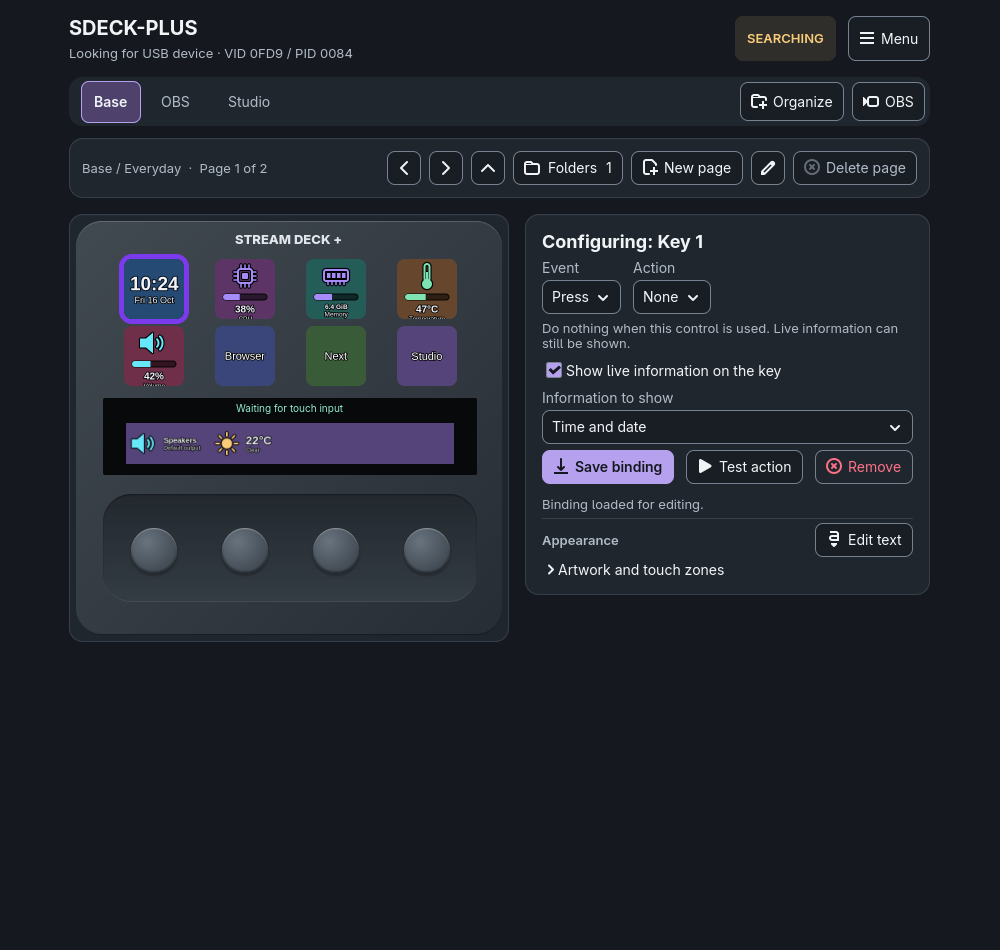
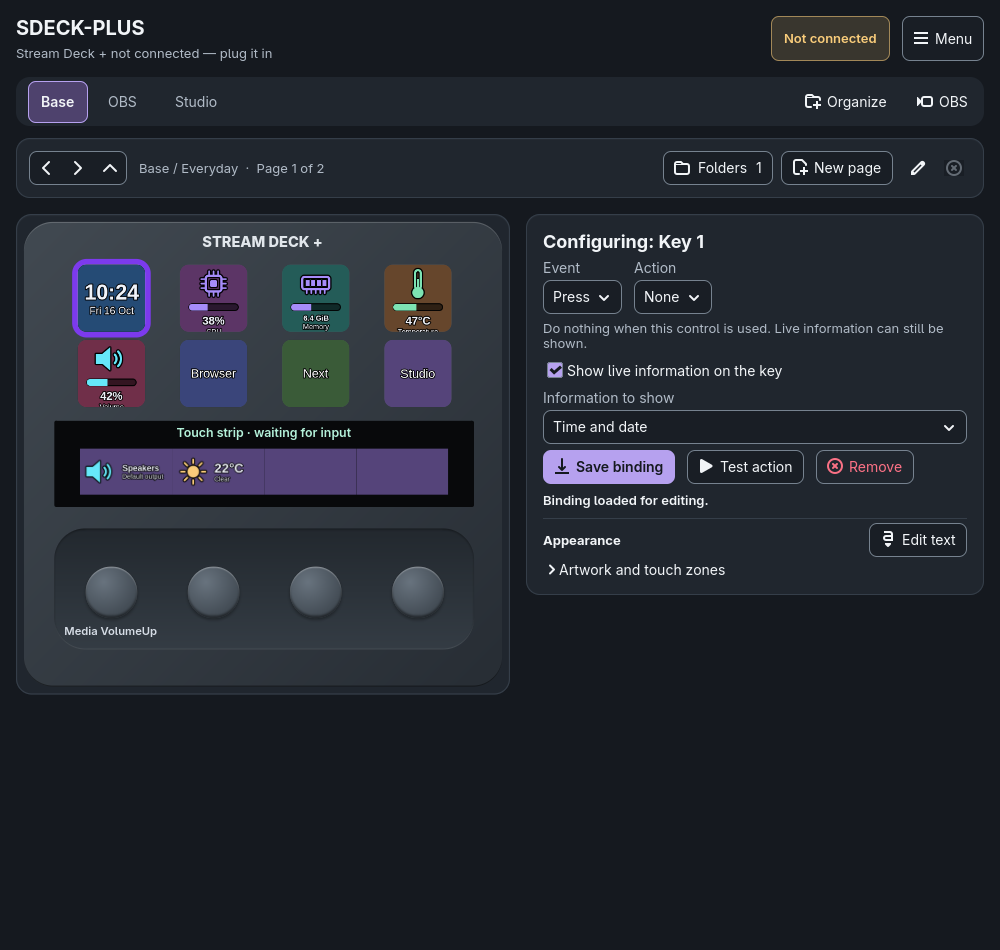
docs: describe the refreshed main window and regenerate screenshots
Document the fill-and-scale layout, page bar grouping, plain-language
connection badge, dial captions and inspector grouping in DESIGN.md,
README.md and CHANGELOG.md, and regenerate the documentation captures.

diff --git a/DESIGN.md b/DESIGN.md
@@ -77,8 +77,9 @@ supporting ink `#536170`, primary action `#6746bb` (hover `#5939a9`, press
 `#4c2f95`), selected tab `#e8e1f6`, focus cue `#0e7183`, error `#c0243f`,
 success `#1b7f55`, warning `#9a6a00`. The graphite hardware is identical in both modes.
 
-Status badges pair semantic tones with visible text and low-alpha surfaces.
-Color alone never communicates state. Hardware uses a graphite chassis
+Status badges pair semantic tones with visible text, a low-alpha fill and a
+55%-alpha edge of the same token: warning for Not connected/Disconnected, error
+for Unavailable and success for Connected. Color alone never communicates state. Hardware uses a graphite chassis
 (`#414951` to `#272d34`), pale branding (`#e1e6eb`), black key/strip material
 (`#08090b`), inset key edge (`#515b65`), recessed rail (`#22282e` to `#343c44`)
 and neutral encoders (`#68737e` to `#343c44`). Subtle inset lighting gives the
@@ -91,7 +92,8 @@ dial turn, and a cyan `#67e8f9` wash over each touched strip zone for 300ms (the
 800px strip maps to four 200px zones; a flick lights every zone it crosses).
 Keyboard focus keeps its cyan outline. Task tabs use the selected-tab surface
 and weight 600; profile tabs add a fine violet inset edge. Inactive tabs are
-transparent with supporting ink; Appearance headings use supporting ink too.
+transparent with supporting ink. Inspector section headings (Options,
+Appearance) use primary ink at 13px/700.
 
 Interactive boundaries use their own neutral token rather than the quieter
 decorative card edge: at least 3:1 against input and editor surfaces in both
@@ -103,8 +105,11 @@ increase thumb contrast without changing native scrolling geometry.
 
 Use the system GTK font. App title: 20px/700. Inspector title: 18px/700.
 Section labels: 14px/600. Body, controls and field labels: 14px. Supporting
-metadata: 13px. Existing physical-device branding and the tiny touch display
-retain their material typography; neither carries configuration instructions.
+metadata: 13px. Binding status: 13px/600 primary ink. Existing physical-device
+branding keeps its material typography. The preview-only touch placeholder
+("Touch strip · waiting for input") is 11px/600 mint on black, and each preview
+dial's caption is 10px/600 pale graphite ink; neither carries configuration
+instructions or reaches the physical device.
 Long summaries ellipsize with full tooltips; editable fields preserve the value.
 
 ## 4. Spacing and layout
@@ -123,10 +128,13 @@ device/editor region have 16px separation. The device and editor also have
 The editor uses 16px inner padding and 6px between related form groups, keeping
 the added return and information options within the default 1000x700 layout.
 Event/action selectors and Save/Test/Remove controls have 12px inline gaps.
-Binding feedback stays with its action buttons at a 12px vertical gap,
-while the Appearance separator keeps action and artwork sections distinct.
-That status line reads "Unsaved changes." as soon as any editor field differs
-from the loaded or saved binding; loading, saving or removing resets it.
+A small "Options" heading groups the page-return and live-information checks.
+Binding feedback sits directly under its action buttons at an 8px vertical gap
+in primary ink, while the Appearance separator, a 4px extra top margin and an
+ink "Appearance" heading keep action and artwork sections distinct.
+That status line reads "Unsaved changes." in the warning tone as soon as any
+editor field differs from the loaded or saved binding; loading, saving or
+removing resets it.
 Selecting another preview control while edits are unsaved asks first with the
 compact confirmation style (Keep editing is the default, Discard changes is
 destructive). Remove leaves an Undo remove button under that status line until
@@ -139,8 +147,9 @@ Appearance tools and artwork disclosure use 12px gaps without extra empty cards.
 Executable and arguments are one related adaptive group: two columns with a
 16px gap when each can receive at least 180px, otherwise stacked with 12px
 separation. Shortcut input and modifiers use the same adaptive group; modifiers
-form a two-by-two grid with 12px columns and 8px rows instead of a cramped line,
-ordered Ctrl, Alt, Shift, Super. A muted line under the grid previews the chord
+are one linked row of named toggle buttons ordered Ctrl, Alt, Shift, Super
+(4px/10px padding, checked state uses the selected-tab surface with a violet
+inset edge, tooltip "Hold X with the key"). A muted line under the row previews the chord
 once it parses (for example "Presses Ctrl + Alt + P") and stays hidden otherwise.
 Commands and named events occupy a full-width field. Hidden fields also hide
 their layout cells, and the group disappears for actions that do not use it,
@@ -154,24 +163,37 @@ heading with its explanation at 8px, rather than giving headings and unrelated
 steps the same gap. Text editing keeps 16px between form and preview and 12px
 between Save/Remove actions; its 120px preview remains unchanged.
 
-The fixed-size device chassis is centered within its natural-size preview card
-(440x428 including padding and border); that card never stretches to match a tall
-form. The inspector uses its content height, without an arbitrary minimum height.
+The fixed-geometry device chassis sits in its preview card (440x428 at 1x,
+including padding and border). The card is presented through `ScaledBin`
+(`src/ui/scaled_bin.rs`): one uniform transform between 1.0x and 1.5x that
+fits the card into its region's width and height, top-aligned and horizontally
+centered. Hardware coordinates, artwork targets and the card's minimum size
+never change, so scaling only uses spare room and never adds scrolling; the
+card never stretches non-uniformly to match a tall form. GTK applies the same
+transform to drawing and pointer picking, so selection, drag-and-drop and
+focus keep working. The inspector uses its content height, without an
+arbitrary minimum height.
 The complete configuration shell (header, profile toolbar, page navigation and
-body) is centered at its GTK natural content width on wide desktops. These bars
-share the shell's leading/trailing edges rather than spanning the viewport while
-the task occupies only its middle. The native FlowBox also retains its natural
-width, keeping the fixed preview beside a readable inspector instead of creating
-a large empty preview cell. Width is content-driven, not a fixed viewport request:
-the ordinary test forms measure roughly 860–875px, and longer forms can use more.
+body) fills the available width up to 1240px (1272px including margins), then
+centers (`Clamp`, `src/ui/clamp.rs`; GTK 4.8 has no native clamp). These bars
+share the shell's leading/trailing edges. The native FlowBox decides wrapping
+from natural widths, so the preview's natural width stays unscaled; spare
+width reaches both regions through horizontal expansion and spare height
+reaches the preview row through vertical expansion. At 1000x700 the preview
+is about 1.1x; at 1280x800 and wider it reaches at least 1.25x.
 At narrow widths the shell shrinks to the available width and the same native
 container stacks the regions; only vertical scrolling is needed at 640px.
-No custom layout manager or resize polling is used.
+These two size-only containers are the only custom layout; there is no resize
+polling.
 
-The profile tabs, profile organization menu and OBS menu form a compact toolbar.
-The organization popover contains only profile creation, application association
-and profile deletion. The page bar groups compact previous/next/parent icons,
-page-owned folders, then New page followed by pencil and red-trash icons.
+The profile tabs, profile organization menu and OBS menu form a compact toolbar;
+Organize and OBS are frameless (hover shows the surface) so they stay secondary
+to the tabs. The organization popover contains only profile creation, application
+association and profile deletion. The page bar separates navigation from
+management: a linked previous/next/parent segmented group leads the
+breadcrumb with a 12px gap, and page-owned folders and New page trail it,
+followed by frameless square pencil and red-trash icons (still named, with
+tooltips; deletion still confirms).
 The folder menu has no outer padding, preserving the page bar's 34px controls.
 Icon-only actions use square 34px hit areas and centered 16px symbolic icons;
 captioned actions use a 6px icon/text gap and the same control height. MenuButton

diff --git a/README.md b/README.md
@@ -28,7 +28,11 @@ GDK_BACKEND=x11 STREAMDECK_DOC_SCREENSHOTS_DIR="$PWD/docs/screenshots" \
 
 **Main window.** Connection status, profile tabs, page navigation, the
 hardware preview with the assigned artwork, and the binding editor for the
-selected control.
+selected control. The header says in plain words whether the Stream Deck + is
+connected (for example "Stream Deck + not connected — plug it in") next to a
+colored **Not connected**, **Unavailable**, **Disconnected** or **Connected**
+badge; hover it for the USB IDs and technical details. Each dial in the preview
+shows the action it is assigned to.
 
 ![Main window with Key 1 selected](docs/screenshots/main-window.png)
 
@@ -392,7 +396,8 @@ Keypad layers and retained legacy action bindings are stored in `layers.conf` in
 configuration unchanged. The adjacent pencil renames the current page;
 the red trash button deletes it after confirmation, including its owned
 folders, bindings and artwork. Renaming preserves its identity and contents.
-The compact previous, next and parent icons have accessible labels and tooltips.
+The previous, next and parent arrows form one group before the page name and
+have accessible labels and tooltips.
 
 The folder icon in the page bar opens **Page folders**. Create a folder,
 select one of this page's folders, then **Open folder**, **Link to control**
@@ -414,7 +419,7 @@ To configure an action, choose the layer at the top, then select a physical cont
 
 1. Click one of the eight buttons (two rows of four), the horizontal touch strip, or one of the four encoders beneath it. Clicking an artwork zone also selects the whole touch strip; zones are image regions, not separate gesture bindings.
 2. Pick an event valid for that control: button press; encoder press/clockwise/counterclockwise; or touch tap, press-and-hold, generic swipe/flick, and directional swipes.
-3. Pick an action and fill only its visible fields. The existing layer, command, application, shortcut and legacy-event choices remain available. **More actions** opens typed category-specific fields described below. Shortcuts accept a full chord such as `CTRL + D` or one key with optional modifier checkboxes.
+3. Pick an action and fill only its visible fields. The existing layer, command, application, shortcut and legacy-event choices remain available. **More actions** opens typed category-specific fields described below. Shortcuts accept a full chord such as `CTRL + D` or one key with the optional **Ctrl**, **Alt**, **Shift** and **Super** modifier toggles.
 4. Click **Save binding** to create or update that control event, or **Remove binding** to clear it. A floating toast confirms success only after the binding is written to disk; validation or saving problems show an error toast. Success disappears after five seconds; errors remain until dismissed or replaced by another notification. Saving never executes the action. Selecting an already configured control event loads its saved action for inspection and editing.
 
 Hover a physical control to see assignments for the selected keypad page or profile touchscreen page, including **Unassigned** events: encoders include **Press**, **CW** (clockwise), and **CCW** (counterclockwise); the touch strip includes tap, hold, flick, and directional swipes. Legacy exact-tick rotation overrides appear separately. Long action text is shortened; select the event to inspect its full saved fields. Summaries refresh after saving/removing bindings, selecting/creating/removing layers, and input-driven **Go to profile or page** actions. Selection highlighting is separate from live pressed-state highlighting, and live input does not replace assignment summaries. The shared **Image…** and **×** edit the explicitly selected artwork target, independently of the binding editor.
@@ -517,11 +522,12 @@ At the default 1000 × 700 logical-pixel client size, the device canvas stays on
 
 The window uses 16 logical pixels of outer padding, charcoal surfaces in dark
 mode and clean pale-gray surfaces in light mode, following the desktop GTK theme.
-The complete configuration desk—header, profile tabs, page bar and editor—is
-centered at its natural content width on wide displays, keeping toolbar actions
-near their task instead of stretching empty bars across the window. At 640 pixels
-it uses the available width and stacks the preview and editor without horizontal
-scrolling. Hardware proportions stay fixed; forms keep their natural height.
+The complete configuration desk—header, profile tabs, page bar and editor—uses
+the window's width up to 1240 pixels and centers beyond that. The hardware
+preview grows with spare room (up to 1.5 times) while keeping its proportions,
+and the editor widens with it. At 640 pixels it uses the available width and
+stacks the preview and editor without horizontal scrolling. Forms keep their
+natural height.
 Violet save actions and cyan keyboard focus stand apart from the quieter chrome.
 Profile tabs use a violet tonal selection with a fine accent edge, and the **Appearance** group
 separates button text and artwork from action editing. **Save binding** only
@@ -531,8 +537,11 @@ Profile tabs and page navigation have a 12-pixel gap; the main preview and
 editor regions have 16-pixel separation. The editor uses 16-pixel padding
 and 6-pixel gaps between related form groups; Appearance uses 4-pixel internal
 gaps. Executable/arguments and shortcut/modifiers share
-adaptive columns, stacking when their available width is too small. Modifier
-checkboxes use a two-by-two grid, and hidden fields do not leave empty cells.
+adaptive columns, stacking when their available width is too small. Modifiers
+are one row of toggle buttons, and hidden fields do not leave empty cells. An
+**Options** heading groups the page-return and live-information choices, and
+the binding status appears right under **Save binding**, **Test action** and
+**Remove**.
 
 Organization, OBS and help panels keep their title and **Close** button visible
 above scrollable content. The text popup retains its full-size preview and

diff --git a/odd/tasks/streamdeck-plus-ui-refresh.md b/odd/tasks/streamdeck-plus-ui-refresh.md
@@ -24,7 +24,7 @@ modifier grid, loose option checkboxes, low-visibility status line).
 - [x] T3 Header status: plain-language connection state, visible badge, VID/PID moved to tooltip.
 - [x] T4 Device preview legibility: larger key labels, clearer touch strip, dials show assigned action.
 - [x] T5 Inspector: aligned modifier toggles, grouped options, visible status next to actions, Appearance placement.
-- [ ] T6 Docs: DESIGN.md, README if affected, CHANGELOG, regenerated screenshots.
+- [x] T6 Docs: DESIGN.md, README if affected, CHANGELOG, regenerated screenshots.
 
 ## Route
 Delegated direct (one writer): 2+ non-trivial files (src/ui.css, src/main.rs,
@@ -94,4 +94,19 @@ changes."; Appearance uses the same ink heading with extra separation. RED
 observed first: `ui_refresh_tests::inspector_groups_modifiers_options_status_and_appearance`
 failed ("row.has_css_class(linked)"), then GREEN. No-scroll 1000x700 assertions
 still pass. Checks: fmt ok, clippy ok, headless ok, examples build ok, display
-bin suite 44/45 (only the known base failure).
+bin suite 44/45 (only the known base failure). Commit 1d8810e.
+
+### T6 (delegated writer)
+DESIGN.md (badges, typography, spacing/layout incl. ScaledBin/Clamp, page bar,
+modifier row, Options/status), README.md (header wording, layout, modifier
+toggles, page arrows) and CHANGELOG.md updated; docs/index.html had no stale text.
+Screenshots regenerated with the documented command; main-window(-light).png
+inspected in both palettes. No meaningful RED (documentation only). Final checks:
+fmt ok; clippy ok; headless `cargo test --offline` ok (307 + 45 + 2); display bin
+suite 44/45 (only the known base failure); `git diff --check` ok.
+
+## Next step
+Human review of the branch; push/PR remain the user's decision. Open follow-up:
+the known touchscreen indicator test failure on base. The 1000x950 doc capture
+still shows spare height below the inspector because the preview is width-limited
+at 1000px; scale fills height on wider windows.

diff --git a/CHANGELOG.md b/CHANGELOG.md
@@ -10,6 +10,18 @@ tagged yet, so everything below is unreleased (package version `0.1.0`).
 
 - The app always starts on the Base profile's first page instead of restoring the
   page that was active when it last closed.
+- **Main window refresh.** The window fills its width (up to 1240px) and the
+  hardware preview scales uniformly into spare room (up to 1.5x) without changing
+  hardware coordinates, artwork or the 1000x700 no-scroll layout. The page bar
+  groups previous/next/parent before the page name and keeps folders and page
+  management after it, with lighter rename/delete icons; Organize and OBS are
+  frameless. The header states the connection in plain language with a colored
+  badge, moving the USB IDs to its tooltip. Preview dials show their assigned
+  action and the touch strip placeholder is easier to read. In the editor,
+  shortcut modifiers are one row of Ctrl/Alt/Shift/Super toggles, an Options
+  heading groups the return and live-information choices, the binding status sits
+  under the action buttons (warning-toned while unsaved) and Appearance has a
+  clear heading.
 
 ### Added
 
